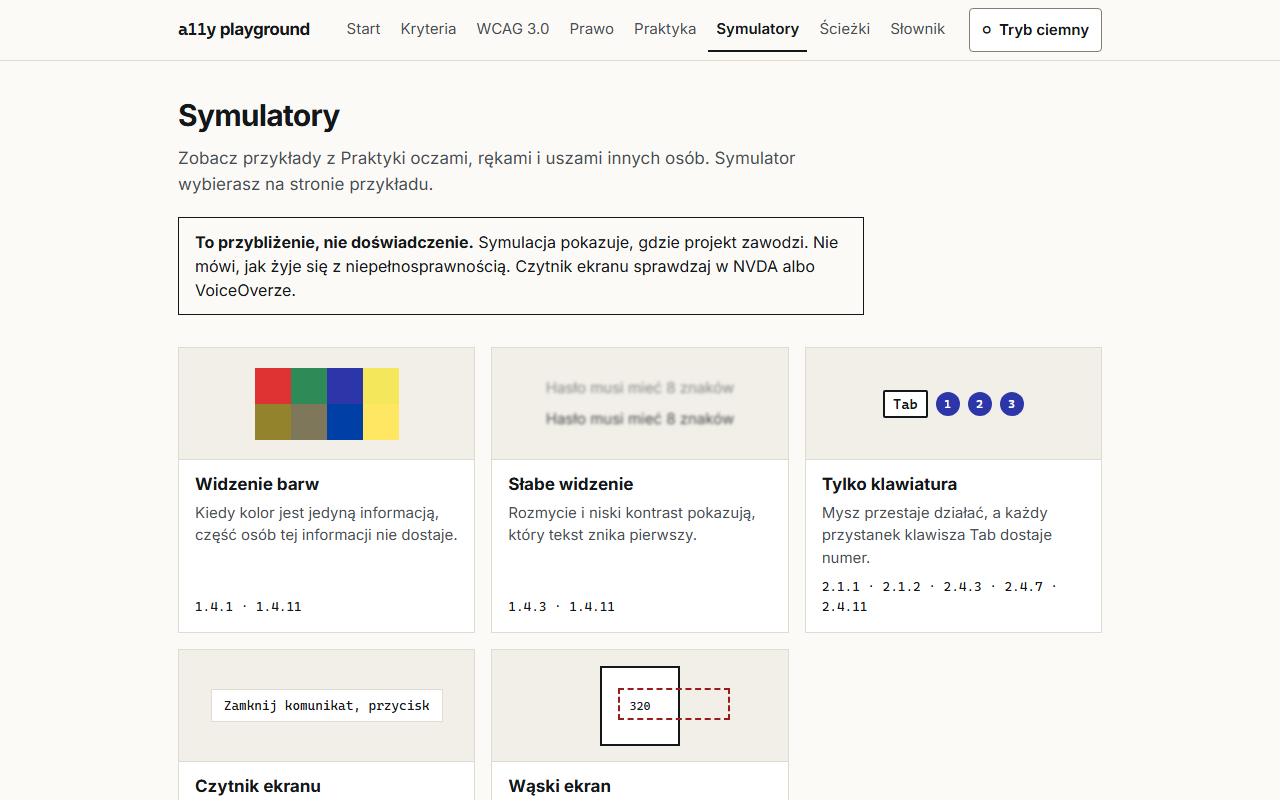
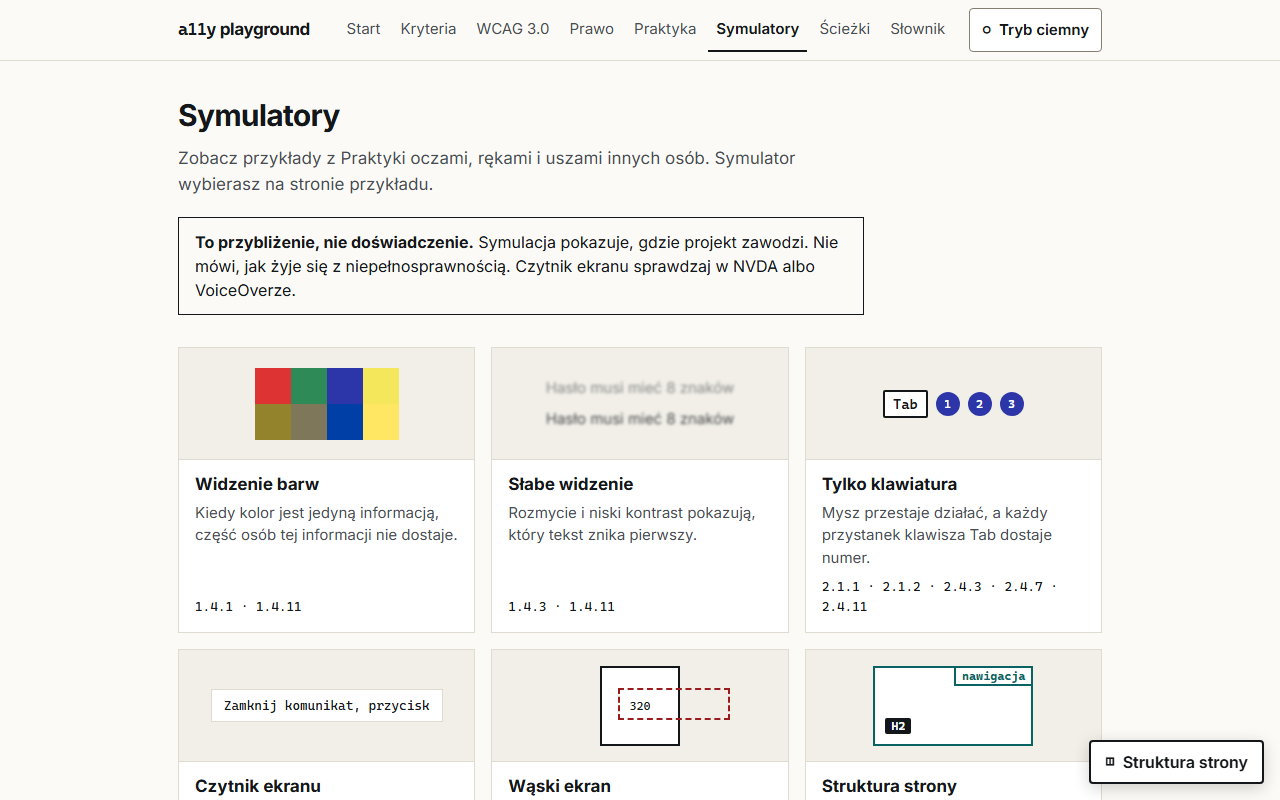
feat(practice): add landmark and heading simulations

diff --git a/src/components/example-frame.tsx b/src/components/example-frame.tsx
@@ -1,12 +1,22 @@
 import { type } from "arktype";
 import { useState } from "react";
 import { type SimulationId, simulations } from "~/content/simulations";
+import type { StructureSummary } from "~/content/structure";
 import { useDemoFrame } from "./use-demo-frame";
 
 const narrowWidth = 320;
 
 // What the demo posts in keyboard mode, see frameScript in demo-document.ts.
 const KeyboardMessage = type({ a11yFocusStep: { n: "number", name: "string", role: "string" } }).or({ a11yBlockedClick: "true" });
+
+// What the demo posts in a structure simulation, see structure.entry.ts.
+const StructureMessage = type({
+  a11yStructure: {
+    landmarks: type({ label: "string", depth: "number" }).array(),
+    headings: type({ label: "string", text: "string" }).array(),
+    findings: "string[]",
+  },
+});
 
 type Step = { n: number; name: string; role: string };
 
@@ -19,7 +29,7 @@ type Step = { n: number; name: string; role: string };
  *
  * `simulation` is sent to the frame over postMessage, on every change and every load. What the
  * simulation shows goes under the frame as text: the focus steps and blocked clicks in keyboard
- * mode, the measured verdict at 320 pixels.
+ * mode, the measured verdict at 320 pixels, the landmarks or headings the frame found.
  */
 export function ExampleFrame({
   src,
@@ -36,11 +46,17 @@ export function ExampleFrame({
 }) {
   const [steps, setSteps] = useState<Step[]>([]);
   const [blocked, setBlocked] = useState(0);
+  const [structure, setStructure] = useState<StructureSummary | null>(null);
   const [started, setStarted] = useState(!motion);
   const { ref: frame, height, size, send } = useDemoFrame({
     simulation,
     active: started,
     onMessage: (message) => {
+      const outline = StructureMessage(message);
+      if (!(outline instanceof type.errors)) {
+        setStructure(outline.a11yStructure);
+        return;
+      }
       const data = KeyboardMessage(message);
       if (data instanceof type.errors) return;
       if ("a11yFocusStep" in data) {
@@ -58,6 +74,7 @@ export function ExampleFrame({
     setTraced(simulation);
     setSteps([]);
     setBlocked(0);
+    setStructure(null);
   }
 
   if (!started) {
@@ -120,6 +137,10 @@ export function ExampleFrame({
         </div>
       ) : null}
 
+      {structure && label && simulation && simulations[simulation].kind === "struktura" ? (
+        <StructureList title={label} summary={structure} />
+      ) : null}
+
       {narrow && size ? (
         size.width > size.viewport ? (
           <p className="mt-3 border-l-4 border-bad py-1 pl-3 text-[0.9375rem]">
@@ -137,6 +158,49 @@ export function ExampleFrame({
           </p>
         )
       ) : null}
+    </div>
+  );
+}
+
+/** The scan of one frame as text, under the frame: the same as its outlines, and what is wrong. */
+function StructureList({ title, summary }: { title: string; summary: StructureSummary }) {
+  const rows = [
+    ...summary.landmarks.map(({ label, depth }) => ({ label, depth, text: "" })),
+    ...summary.headings.map(({ label, text }) => ({ label, depth: 0, text })),
+  ];
+  return (
+    <div className="mt-3 text-[0.9375rem]">
+      <h3 className="font-semibold">{title}</h3>
+      {rows.length > 0 ? (
+        <ul className="mt-1">
+          {rows.map(({ label, depth, text }, index) => (
+            <li key={index} style={{ paddingInlineStart: `${String(depth * 1.25)}rem` }}>
+              <span className="font-mono text-[0.8125rem] font-semibold">{label}</span>
+              {text ? ` ${text}` : null}
+            </li>
+          ))}
+        </ul>
+      ) : (
+        <p className="mt-1 text-ink-2">Nic. Czytnik nie ma tu do czego skakać.</p>
+      )}
+      {summary.findings.length > 0 ? (
+        <ul className="mt-2 border-l-4 border-bad py-1 pl-3">
+          {summary.findings.map((finding) => (
+            <li key={finding}>
+              <span aria-hidden="true" className="font-bold text-bad">
+                ✕{" "}
+              </span>
+              {finding}
+            </li>
+          ))}
+        </ul>
+      ) : (
+        <p className="mt-2 border-l-4 border-good py-1 pl-3">
+          <strong className="text-good">
+            <span aria-hidden="true">✓ </span>Bez uwag.
+          </strong>
+        </p>
+      )}
     </div>
   );
 }

diff --git a/src/content/demo-document.ts b/src/content/demo-document.ts
@@ -40,8 +40,10 @@ const colourFilters = `<svg aria-hidden="true" focusable="false" width="0" heigh
 // hydrates after the frame has already loaded.
 //
 // { a11ySimulation } from the page sets data-symulacja on <html>, which switches the filters
-// above. In "klawiatura" the frame blocks pointer clicks (a click with detail 0 comes from Enter
-// or Space, so it passes), and numbers every element that takes focus, telling the page each step.
+// above, and hands the simulation to a11yStructure, which example frames carry for the
+// structure simulations (see structure.entry.ts). In "klawiatura" the frame blocks pointer
+// clicks (a click with detail 0 comes from Enter or Space, so it passes), and numbers every
+// element that takes focus, telling the page each step.
 const frameScript = `
   const root = document.documentElement;
   const report = () => {
@@ -65,6 +67,7 @@ const frameScript = `
     steps = 0;
     for (const badge of document.querySelectorAll(".a11y-sim-badge")) badge.remove();
     notice.remove();
+    if (typeof a11yStructure !== "undefined") a11yStructure.show(next);
     report();
   };
 
@@ -116,6 +119,12 @@ const frameScript = `
   report();
 `;
 
+/** A bundled script as an inline script element. Nothing in it may close the element early. */
+function inlineScript(source: string) {
+  return `
+<script>${source.replace(/<\/script/gi, "<\\/script")}</script>`;
+}
+
 /** The document every demo frame loads: base styles, the fragment, the colour filters and the frame script. */
 function demoShell({ title, root, fragment, scripts = "" }: { title: string; root: string; fragment: string; scripts?: string }) {
   return `<!doctype html>
@@ -139,10 +148,16 @@ ${colourFilters}
 /**
  * The full HTML document one variant of an example renders in. Served by /demo/$slug/$variant
  * and loaded in a sandboxed iframe, so nothing in it reaches the page around it. The
- * data-example-root marker lets the isolation test prove that.
+ * data-example-root marker lets the isolation test prove that. `structureScript` is the bundle
+ * from virtual:structure, which draws the structure simulations.
  */
-export function demoDocument(example: Example, variant: VariantName) {
-  return demoShell({ title: `Przykład ${variantLabels[variant]}: ${example.title}`, root: variant, fragment: example[variant].source });
+export function demoDocument(example: Example, variant: VariantName, structureScript: string) {
+  return demoShell({
+    title: `Przykład ${variantLabels[variant]}: ${example.title}`,
+    root: variant,
+    fragment: example[variant].source,
+    scripts: inlineScript(structureScript),
+  });
 }
 
 /**
@@ -157,8 +172,7 @@ export function patternDocument(pattern: Pattern, logScript: string) {
     title: `Wzorzec: ${pattern.title}`,
     root: "wzorzec",
     fragment: pattern.source,
-    scripts: `
-<script>${logScript.replace(/<\/script/gi, "<\\/script")}</script>
+    scripts: `${inlineScript(logScript)}
 <script>a11yPatternLog.start(${rows});</script>`,
   });
 }

diff --git a/src/components/simulation-picker.tsx b/src/components/simulation-picker.tsx
@@ -3,7 +3,8 @@ import { type SimulationId, simulationIds, simulations } from "~/content/simulat
 /**
  * The simulator rail on an example page (variant 1C of the simulator mocks): one list of native
  * radios, "Bez symulacji" first, each with a line on what it does. Picking one does not move
- * focus; the page announces the choice.
+ * focus; the page announces the choice. The structure simulations follow under their own label
+ * (variant 4A of the landmarks mocks).
  */
 export function SimulationPicker({
   value,
@@ -16,6 +17,7 @@ export function SimulationPicker({
     { id: undefined, label: "Bez symulacji", hint: "Tak, jak widzisz ty." },
     ...simulationIds.map((id) => ({ id, label: simulations[id].label, hint: simulations[id].hint })),
   ];
+  const firstStructure = simulationIds.find((id) => simulations[id].kind === "struktura");
 
   return (
     <fieldset>
@@ -23,6 +25,11 @@ export function SimulationPicker({
       <ul className="border-t-2 border-ink">
         {options.map(({ id, label, hint }) => (
           <li key={id ?? "brak"} className="border-b border-rule">
+            {id === firstStructure ? (
+              <span className="block border-b border-rule pt-4 pb-1 font-mono text-xs font-semibold tracking-widest text-ink-2 uppercase">
+                Struktura strony
+              </span>
+            ) : null}
             <label className="grid min-h-11 cursor-pointer grid-cols-[1.25rem_1fr] gap-x-3 py-2.5 has-checked:font-bold has-focus-visible:outline-3 has-focus-visible:outline-offset-2 has-focus-visible:outline-accent">
               <input
                 type="radio"

diff --git a/src/content/simulations.ts b/src/content/simulations.ts
@@ -5,7 +5,7 @@
  */
 
 /** A kind groups the ids that teach the same thing; each kind has one Markdown file. */
-export const simulationKinds = ["barwy", "slabe-widzenie", "klawiatura", "czytnik", "waski-ekran"] as const;
+export const simulationKinds = ["barwy", "slabe-widzenie", "klawiatura", "czytnik", "waski-ekran", "struktura"] as const;
 export type SimulationKind = (typeof simulationKinds)[number];
 
 /**
@@ -22,6 +22,8 @@ export const simulations = {
   czytnik: { kind: "czytnik", label: "Czytnik ekranu", hint: "Co przeczyta czytnik, po kolei." },
   "320px": { kind: "waski-ekran", label: "320 pikseli", hint: "Tyle, ile widać przy powiększeniu 400%." },
   "tekst-200": { kind: "waski-ekran", label: "Tekst 200%", hint: "Tekst dwa razy większy." },
+  "punkty-orientacyjne": { kind: "struktura", label: "Punkty orientacyjne", hint: "Obszary, między którymi skacze czytnik." },
+  naglowki: { kind: "struktura", label: "Nagłówki", hint: "Spis treści, który słyszy czytnik." },
 } as const satisfies Record<string, { kind: SimulationKind; label: string; hint: string }>;
 
 export type SimulationId = keyof typeof simulations;
@@ -40,4 +42,5 @@ export const firstOfKind = {
   klawiatura: "klawiatura",
   czytnik: "czytnik",
   "waski-ekran": "320px",
+  struktura: "punkty-orientacyjne",
 } as const satisfies Record<SimulationKind, SimulationId>;

diff --git a/src/content/structure.entry.ts b/src/content/structure.entry.ts
@@ -1,0 +1,23 @@
+import type { SimulationId } from "./simulations";
+import { clearStructure, markStructure, scanStructure, type StructureView, summarize } from "./structure";
+
+/** Which outlines each structure simulation draws. */
+const views = {
+  "punkty-orientacyjne": { landmarks: true, headings: false },
+  naglowki: { landmarks: false, headings: true },
+} as const satisfies Partial<Record<SimulationId, StructureView>>;
+
+/**
+ * The script frame-script.vite.ts bundles into every example frame, exposed as the global
+ * `a11yStructure`. The frame script calls `a11yStructure.show(simulation)` on every simulation
+ * change: a structure simulation outlines the fragment and posts the scan to the page as text,
+ * any other takes the outlines off.
+ */
+export function show(simulation: string | null) {
+  clearStructure(document);
+  const view = Object.entries(views).find(([id]) => id === simulation)?.[1];
+  if (!view) return;
+  const structure = scanStructure(document.querySelector("[data-example-root]") ?? document.body);
+  markStructure(structure, view, document);
+  parent.postMessage({ a11yStructure: summarize(structure, view) }, "*");
+}

diff --git a/src/routes/demo/$slug.$variant.ts b/src/routes/demo/$slug.$variant.ts
@@ -1,4 +1,5 @@
 import { createFileRoute } from "@tanstack/react-router";
+import structureScript from "virtual:structure";
 import { demoDocument, variants } from "~/content/demo-document";
 import { examples } from "~/content/examples";
 
@@ -11,7 +12,7 @@ export const Route = createFileRoute("/demo/$slug/$variant")({
         const example = examples.get(params.slug);
         const variant = variants.find((v) => v === params.variant);
         if (!example || !variant) return new Response("Nie ma takiego przykładu", { status: 404 });
-        return new Response(demoDocument(example, variant), {
+        return new Response(demoDocument(example, variant, structureScript), {
           headers: { "content-type": "text/html; charset=utf-8" },
         });
       },

diff --git a/src/routes/symulatory.tsx b/src/routes/symulatory.tsx
@@ -143,4 +143,12 @@ const samples: Record<SimulationKind, ReactNode> = {
       <span className="absolute top-5 left-4 h-8 w-28 border-2 border-dashed border-bad" />
     </div>
   ),
+  struktura: (
+    <div className="relative h-20 w-40 border-2 border-[light-dark(#0a6363,#6fd3d3)] bg-surface">
+      <span className="absolute top-0 right-0 border-b-2 border-l-2 border-[light-dark(#0a6363,#6fd3d3)] bg-surface px-1.5 font-mono text-xs font-bold text-[light-dark(#0a6363,#6fd3d3)]">
+        nawigacja
+      </span>
+      <span className="absolute bottom-2.5 left-2.5 rounded-xs bg-ink px-1.5 font-mono text-xs font-bold text-paper">H2</span>
+    </div>
+  ),
 };

diff --git a/vite.config.ts b/vite.config.ts
@@ -20,6 +20,7 @@ export default defineConfig({
   plugins: [
     readingOrderPlugin(),
     frameScriptPlugin({ id: "virtual:pattern-log", entry: "src/content/pattern-log.entry.ts", name: "a11yPatternLog" }),
+    frameScriptPlugin({ id: "virtual:structure", entry: "src/content/structure.entry.ts", name: "a11yStructure" }),
     tailwindcss(),
     tanstackStart({
       // Content is static, so every page is rendered to HTML at build time. Crawling finds the

diff --git a/src/virtual-modules.d.ts b/src/virtual-modules.d.ts
@@ -13,3 +13,9 @@ declare module "virtual:pattern-log" {
   const script: string;
   export default script;
 }
+
+declare module "virtual:structure" {
+  /** The landmarks and headings simulations of example frames as one classic script. See frame-script.vite.ts. */
+  const script: string;
+  export default script;
+}

diff --git a/README.md b/README.md
@@ -38,7 +38,7 @@ The interface is in Polish. This README is in English.
 - **Search** (`/szukaj`, also on the home page) over criteria, examples, patterns, provisions, lessons, WCAG 3.0 guidelines and the glossary. It finds criteria by number, name or symptom ("modal", "placeholder"), articles by topic ("deklaracja dostępności"), and ignores Polish diacritics.
 - **Practice** (`/praktyka`): eleven examples as cards ordered by the cost of the fix, each with what the user gains. An example page (`/praktyka/ikona-jako-przycisk`) shows the broken and the fixed variant one above the other, each running in a sandboxed iframe, with its code and what a screen reader says. Examples that move start only when the reader asks. Criterion pages link to their examples.
 - **Patterns** (`/praktyka/wzorce`, the second half of Praktyka): working components built from the WAI-ARIA Authoring Practices, after the list of Deque University ARIA Examples. The catalogue shows a still of each, grouped by batch, and filters by whether HTML has the element for the job (`?natywnie=`). A pattern page (`/praktyka/wzorce/rozwin-zwin`) runs the pattern in a sandboxed iframe, logs beside it what a screen reader would say after every key (focus, state changes, live regions), shows its ARIA attributes with their current values, and turns its keyboard behaviour into an exercise that ticks itself off. Criterion pages and practice examples link to their patterns.
-- **Simulators** on every example page: a list beside the frames switches both variants to colour vision deficiency (four types), low vision, keyboard only, screen reader, 320 pixels wide or text at 200%. The choice lives in `?symulacja=`, and none is on by default. Each one puts text next to the frames, so no simulator is the only way to get the information: what the simulation shows and what it does not, the numbered focus steps and blocked mouse clicks, a table of what a screen reader reads in both variants (computed at build time), or whether the content fits in 320 pixels, measured in the frame.
+- **Simulators** on every example page: a list beside the frames switches both variants to colour vision deficiency (four types), low vision, keyboard only, screen reader, 320 pixels wide, text at 200%, or the outlines of their landmarks or headings. The choice lives in `?symulacja=`, and none is on by default. Each one puts text next to the frames, so no simulator is the only way to get the information: what the simulation shows and what it does not, the numbered focus steps and blocked mouse clicks, a table of what a screen reader reads in both variants (computed at build time), whether the content fits in 320 pixels, measured in the frame, or the landmarks or headings each frame has and what is missing.
 - **Simulators page** (`/symulatory`): what each simulator shows, its limits, the criteria it teaches, and links into the examples with the simulation already picked.
 - **Law** (`/prawo`): the 2019 digital accessibility act in full, the parts of the 2019 special needs act and the 2024 products and services act (the Polish EAA) that create digital obligations, and a page on EN 301 549. An article page (`/prawo/ustawa-2019-848/art-5`) shows each ustęp next to our summary. Every act says which consolidated text it comes from, when it was downloaded, and whether it was amended after that text.
 - **What applies to me** (`/mapowanie`): pick a website or app of a public body, or a product or service of a company, and every deadline appears on one timeline, with the ones for your situation highlighted and the criteria behind them in a table.
@@ -207,7 +207,7 @@ The tests check that every fixed fragment passes axe, that every page passes axe
 
 ### Simulators
 
-The simulation ids are code, in `src/content/simulations.ts`. What each kind of simulator shows is content, one file per kind in `content/symulatory/<kind>.md` (`barwy`, `slabe-widzenie`, `klawiatura`, `czytnik`, `waski-ekran`):
+The simulation ids are code, in `src/content/simulations.ts`. What each kind of simulator shows is content, one file per kind in `content/symulatory/<kind>.md` (`barwy`, `slabe-widzenie`, `klawiatura`, `czytnik`, `waski-ekran`, `struktura`):
 
 ```markdown
 ---
@@ -224,6 +224,7 @@ Opis ogólny, pokazywany przy przykładach bez własnej notatki.
 - `examples` become the "Wypróbuj na" links on `/symulatory`.
 - `limits` is shown as "Czego to nie pokazuje" next to every simulation of that kind.
 - The screen reader list is computed by a Vite plugin (`src/content/reading-order.vite.ts`) with jsdom and `dom-accessibility-api`, for each fragment after its script has run. A role without a Polish name fails `pnpm test`.
+- The structure simulations run `src/content/structure.ts` inside the frame: it finds landmarks and headings the way HTML-AAM defines them (a `header` inside `main` is not a banner, a `section` needs a name), draws the outlines and posts the list to the page. The same module powers "Struktura strony" on the app's own pages, loaded on the first press.
 
 ### ARIA patterns
 

diff --git a/content/symulatory/struktura.md b/content/symulatory/struktura.md
@@ -1,0 +1,11 @@
+---
+title: Struktura strony
+summary: Obrysy pokazują punkty orientacyjne i nagłówki, czyli to, między czym czytnik ekranu pozwala skakać.
+criteria: ["1.3.1", "2.4.1", "2.4.6"]
+examples: [tabela-z-naglowkami]
+limits: Pokazuje tylko punkty orientacyjne i nagłówki, nie listy, tabele ani łącza, po których czytnik też potrafi skakać. Przykład to zwykle fragment strony, więc uwagi o braku obszaru głównego albo H1 dotyczą fragmentu, nie całej strony.
+status: szkic
+---
+Osoby z czytnikiem ekranu rzadko czytają stronę od góry do dołu. Klawiszem D (NVDA) albo z wirnika (VoiceOver) skaczą między punktami orientacyjnymi: banerem, nawigacją, treścią główną i stopką. Klawiszem H przechodzą po nagłówkach jak po spisie treści.
+
+Obie symulacje rysują w ramce obrysy z etykietą roli albo poziomu, a pod ramką wypisują to samo słowami, razem z uwagami: brakującym obszarem głównym, dwiema nawigacjami bez nazwy, pominiętym poziomem nagłówka. Ten sam podgląd całej strony, na której jesteś, daje przycisk „Struktura strony” w prawym dolnym rogu.
